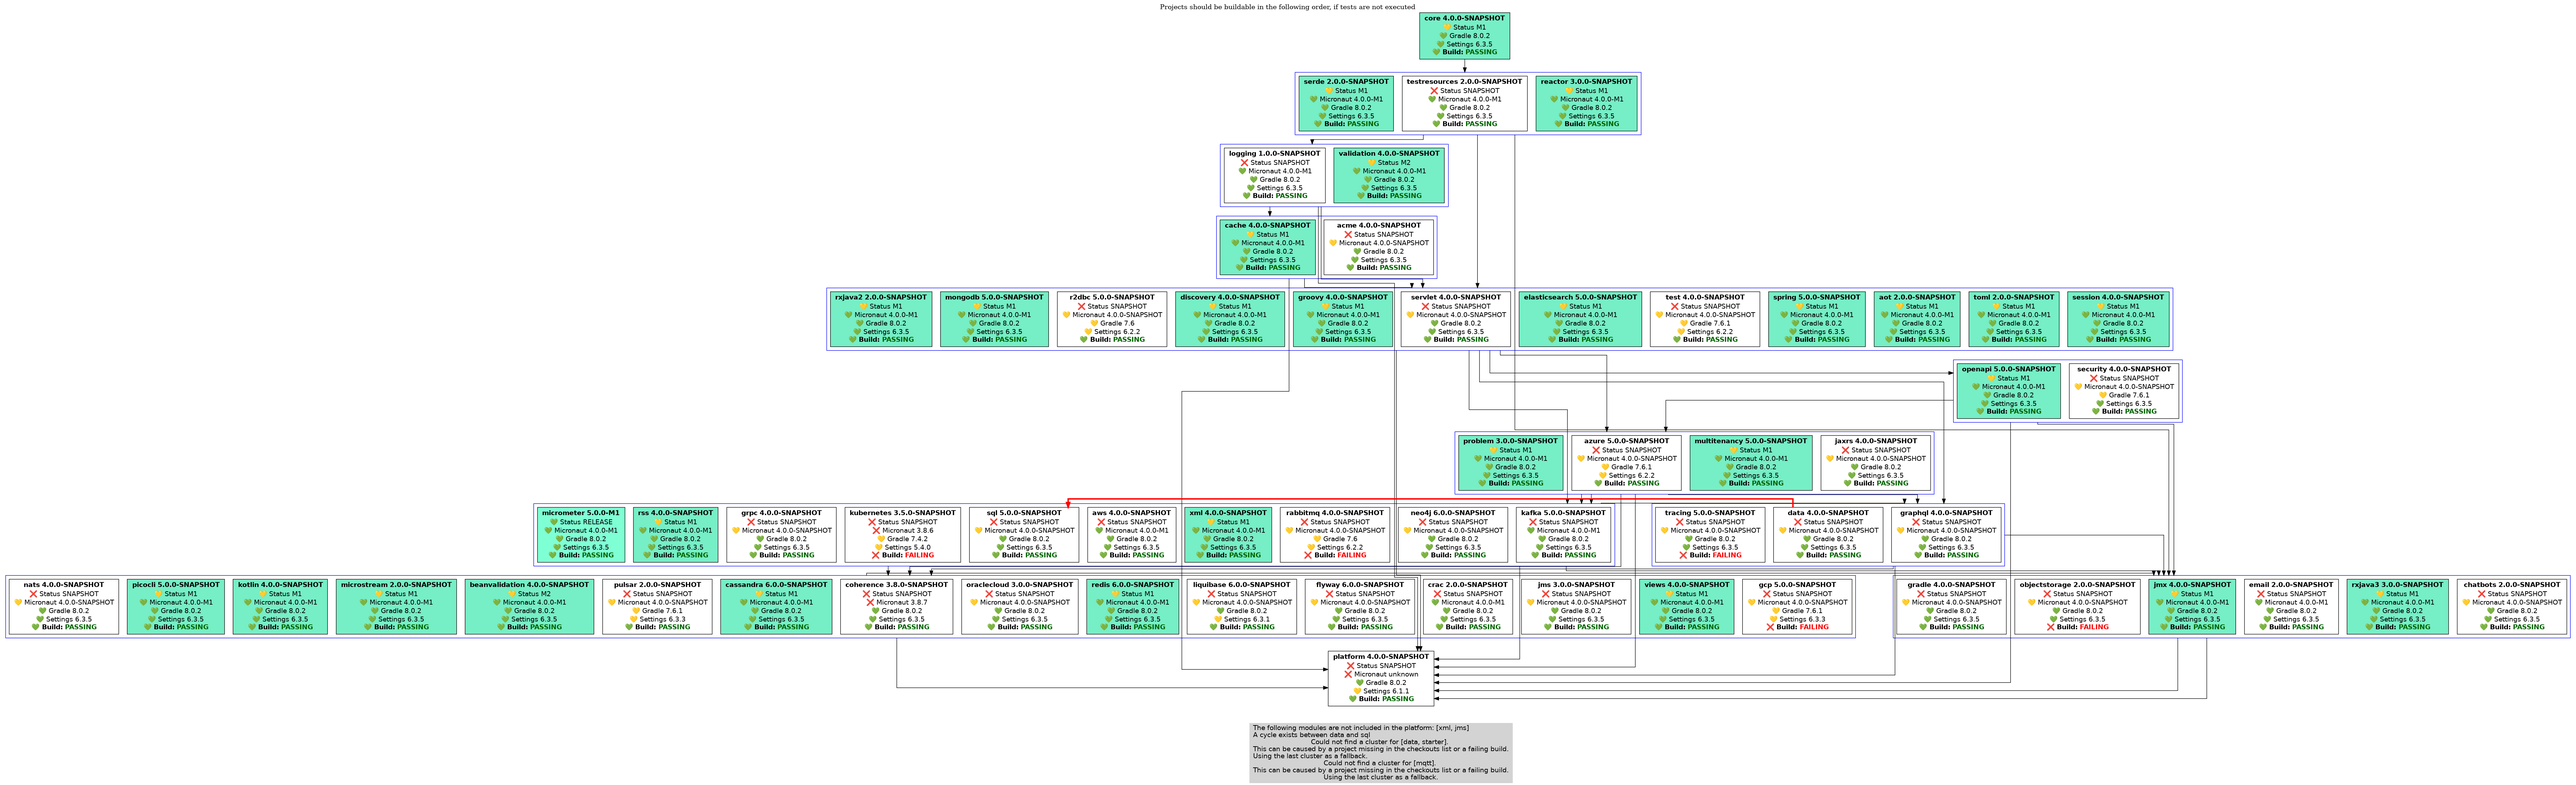
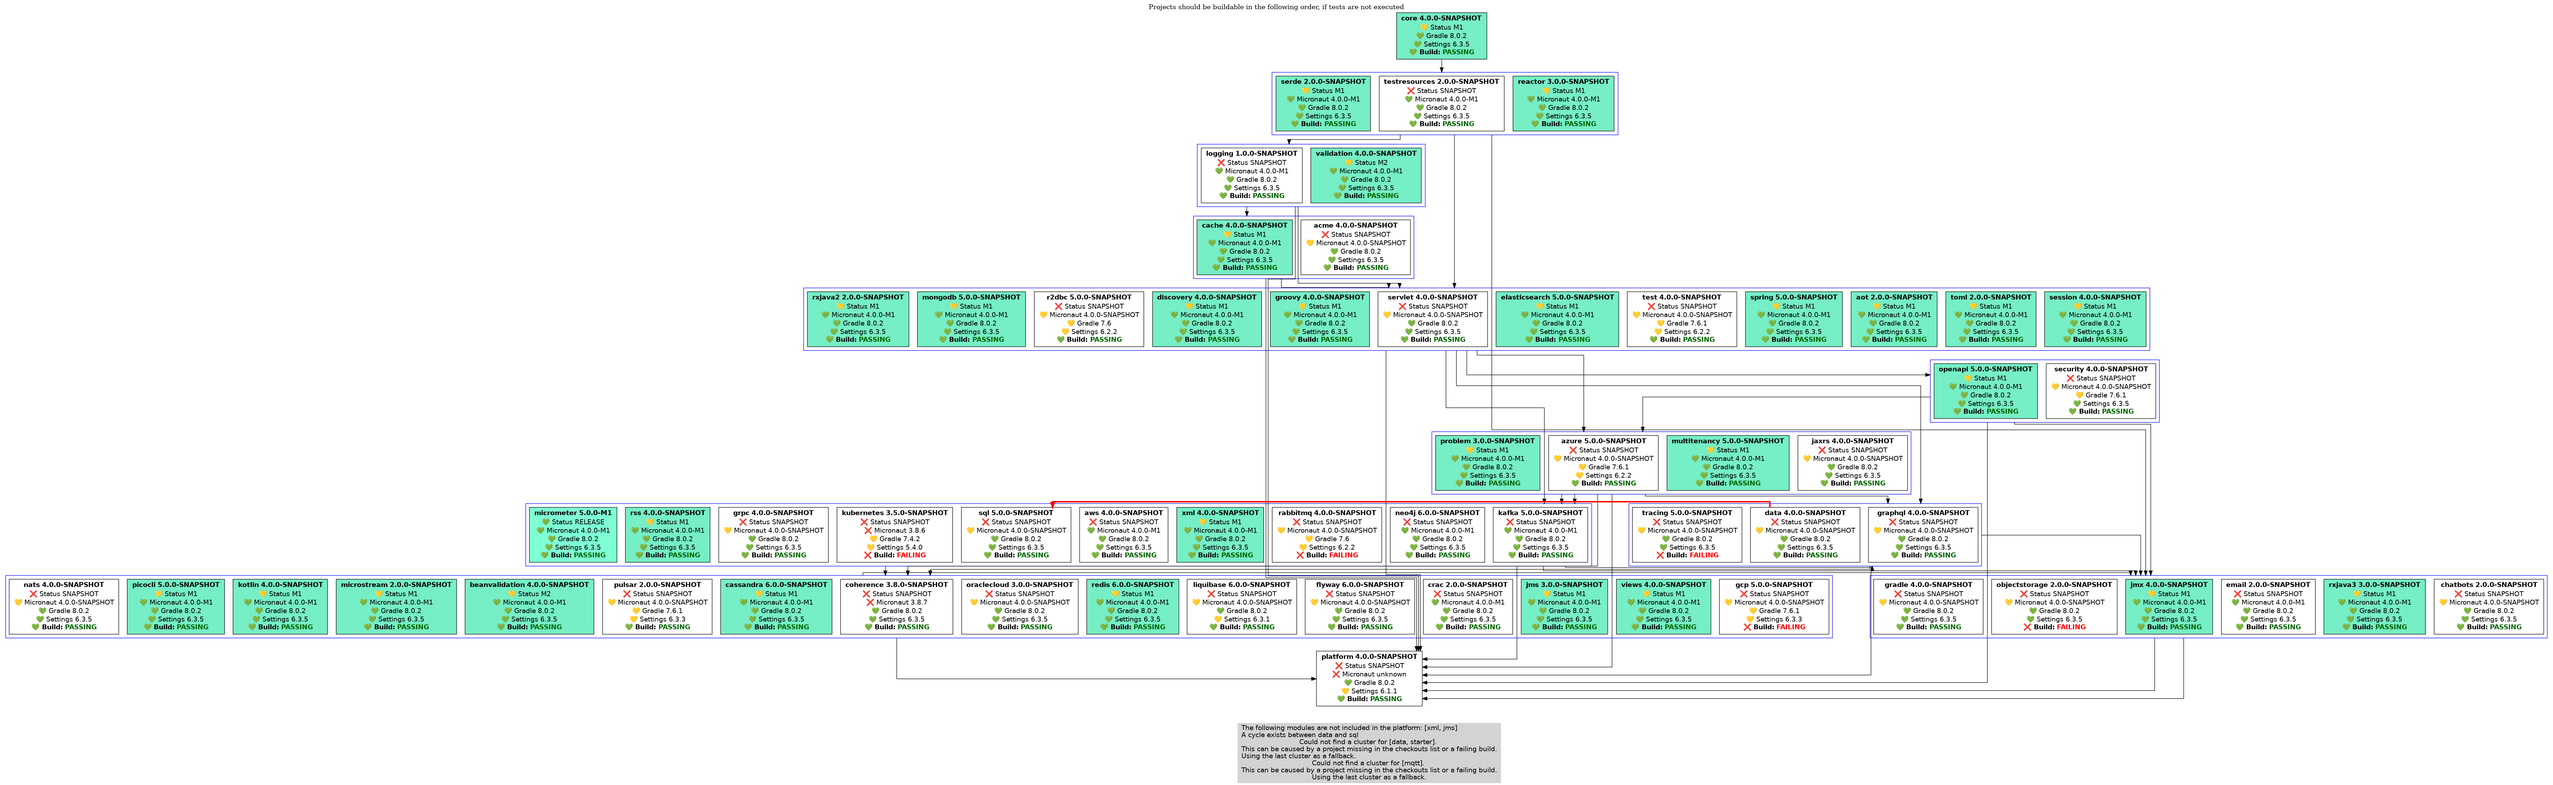
deploy: 621b984d27e166e36f58a1d2266ac4ad5a240d57

Changed region(s): [[0.0, 0.5575, 0.999, 0.8981], [0.3122, 0.0, 0.8429, 0.5265], [0.4995, 0.9291, 0.5932, 1.0]]

diff --git a/index.html b/index.html
@@ -80,7 +80,7 @@
 <body>
 <div class="header">
     <img src="https://micronaut.io/wp-content/uploads/2020/11/MIcronautLogo_Horizontal.svg">
-    <div class="right">Generated at Mar 26, 2023, 6:16:14 AM</div>
+    <div class="right">Generated at Mar 26, 2023, 12:15:54 PM</div>
 </div>
 <div class="row">
     <nav>
@@ -264,8 +264,8 @@
 </TABLE></li>
         <li class="item" onclick="showImage(this, 'project-graph-jms.png')"><TABLE BORDER="0" CELLSPACING="1" CELLPADDING="1" STYLE="rounded">
 <TR><TD><B>jms 3.0.0-SNAPSHOT</B></TD></TR>
-<TR><TD>&#10060; Status SNAPSHOT</TD></TR>
-<TR><TD>&#128155; Micronaut 4.0.0-SNAPSHOT</TD></TR>
+<TR><TD>&#128155; Status M1</TD></TR>
+<TR><TD>&#128154; Micronaut 4.0.0-M1</TD></TR>
 <TR><TD>&#128154; Gradle 8.0.2</TD></TR>
 <TR><TD>&#128154; Settings 6.3.5</TD></TR>
 <TR><TD>&#128154; <B>Build: <FONT COLOR="darkgreen">PASSING</FONT></B></TD></TR>
@@ -361,7 +361,7 @@
         <li class="item" onclick="showImage(this, 'project-graph-neo4j.png')"><TABLE BORDER="0" CELLSPACING="1" CELLPADDING="1" STYLE="rounded">
 <TR><TD><B>neo4j 6.0.0-SNAPSHOT</B></TD></TR>
 <TR><TD>&#10060; Status SNAPSHOT</TD></TR>
-<TR><TD>&#128155; Micronaut 4.0.0-SNAPSHOT</TD></TR>
+<TR><TD>&#128154; Micronaut 4.0.0-M1</TD></TR>
 <TR><TD>&#128154; Gradle 8.0.2</TD></TR>
 <TR><TD>&#128154; Settings 6.3.5</TD></TR>
 <TR><TD>&#128154; <B>Build: <FONT COLOR="darkgreen">PASSING</FONT></B></TD></TR>
